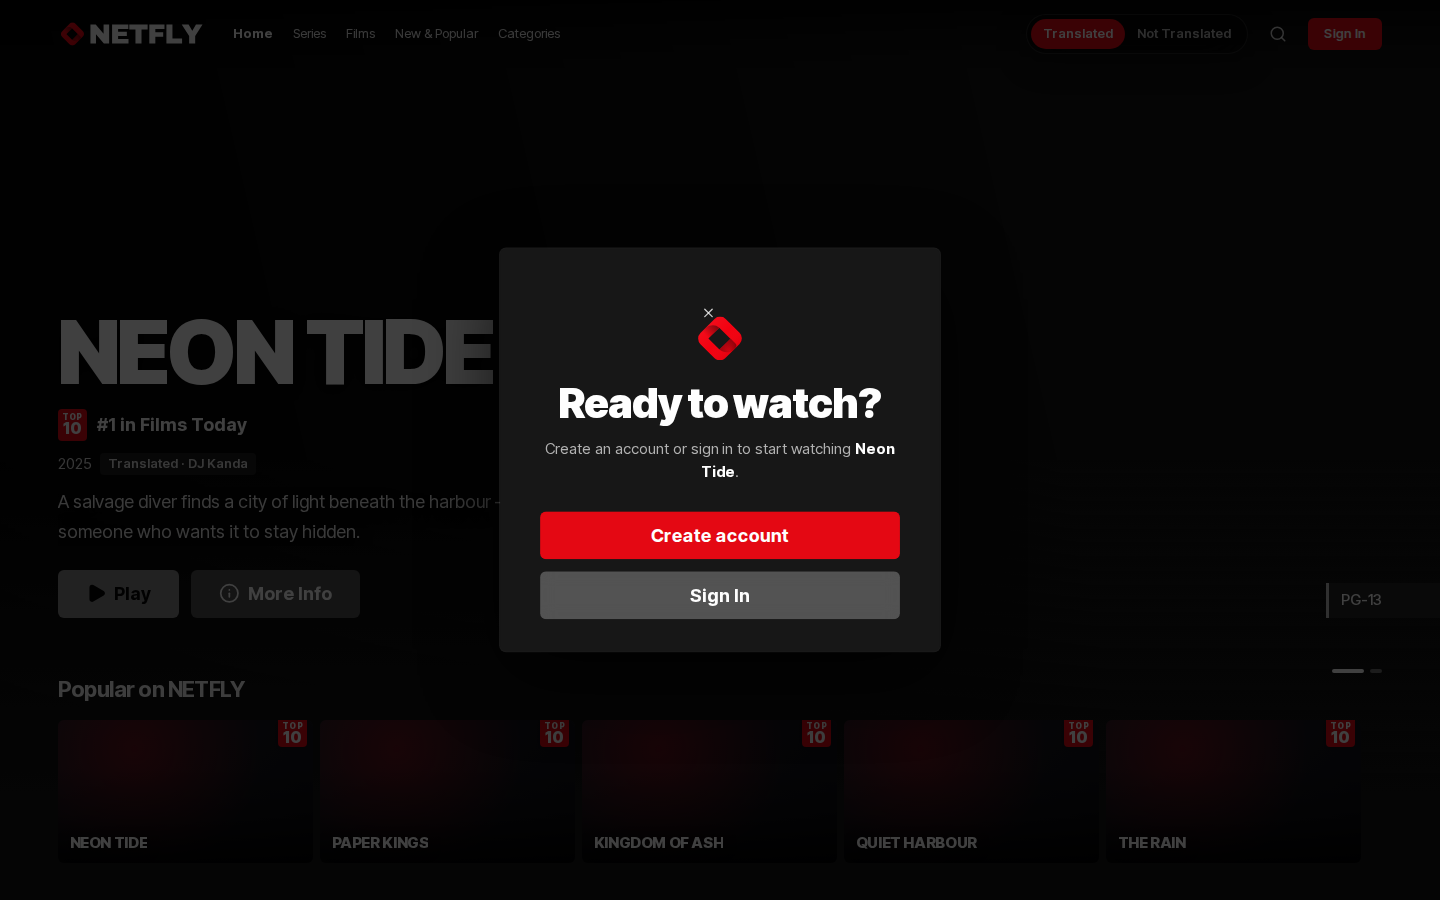
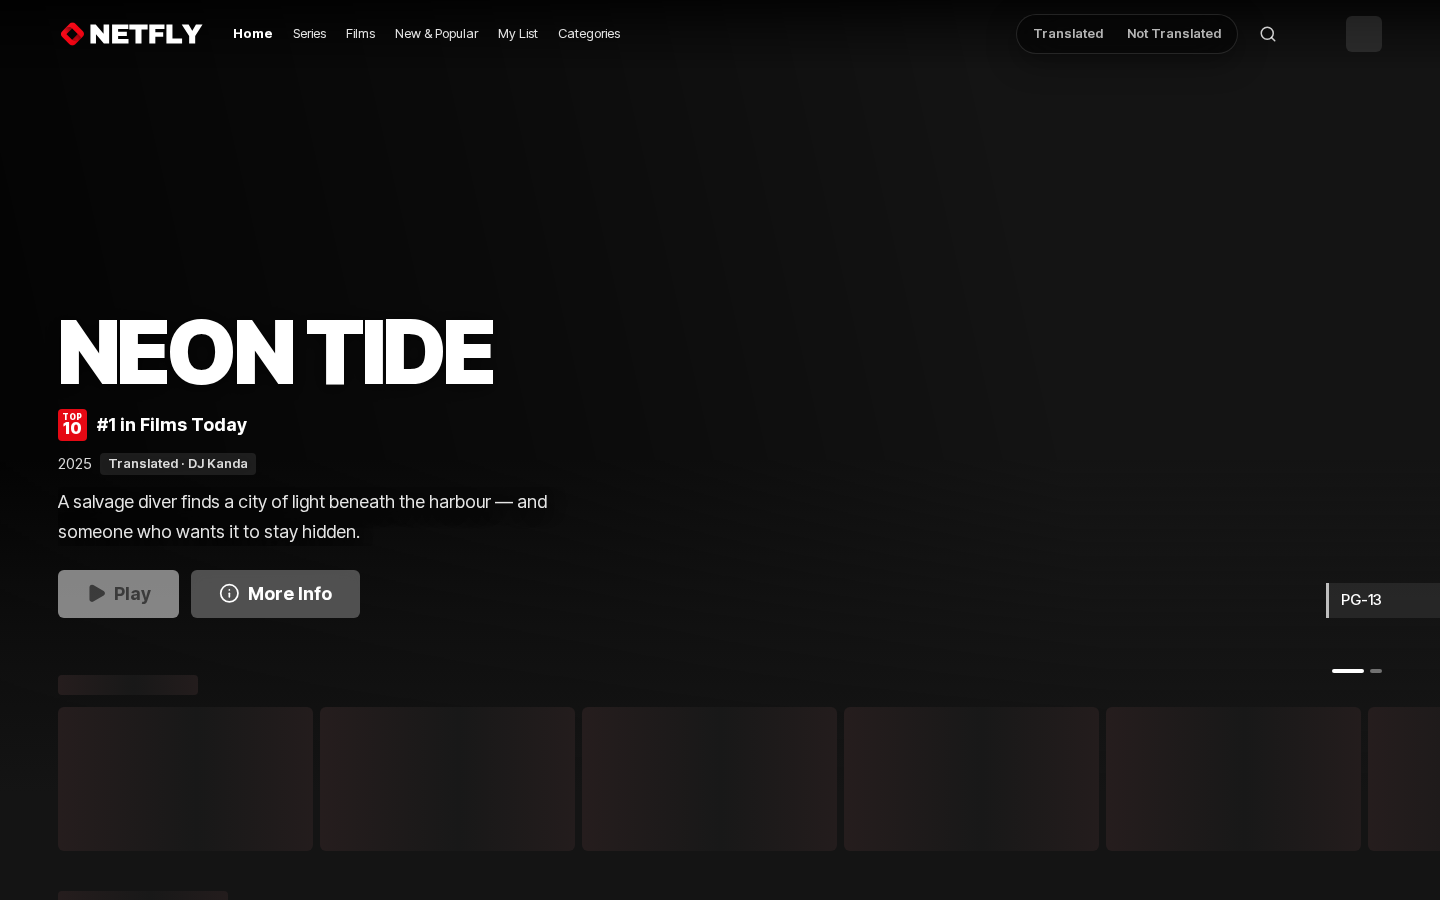
ui

diff --git a/e2e/tests/loader-pages.spec.ts b/e2e/tests/loader-pages.spec.ts
@@ -33,7 +33,11 @@ for (const size of SIZES) {
     test("a saving button keeps its width and shows the small loader", async ({ page }) => {
       const username = await createAccount();
       await page.goto("/login");
-      await hold(page, (u, r) => u.pathname === "/api/v1/auth/login" && r.request().method() === "POST", 2500);
+      await hold(
+        page,
+        (u, r) => u.pathname === "/api/v1/auth/login" && r.request().method() === "POST",
+        2500,
+      );
       const button = page.getByRole("button", { name: /^Sign in$/i });
       const width = (await button.boundingBox())!.width;
       await submitSignIn(page, username);
@@ -52,7 +56,8 @@ for (const size of SIZES) {
       test.skip(dev, "route fallbacks need prefetching, which only production builds do");
       await page.goto("/categories");
       // Hold the navigation's RSC request, not the prefetch (which carries the loading boundary).
-      const navigation = (r: Route) => !!r.request().headers()["rsc"] && !r.request().headers()["next-router-prefetch"];
+      const navigation = (r: Route) =>
+        !!r.request().headers()["rsc"] && !r.request().headers()["next-router-prefetch"];
       await hold(page, (u, r) => u.pathname.startsWith("/categories/") && navigation(r), 3000);
       await page.locator('main a[href^="/categories/"]').first().click();
       const loader = page.locator("[aria-busy] > .nf-loader[data-size=lg]:has(svg)");
@@ -106,7 +111,11 @@ test.describe("buttons that start a navigation behave like saving buttons", () =
 
   test("Get Started (a link) and the sign-up Next button", async ({ page }) => {
     const slow = (prefix: string) =>
-      hold(page, (u, r) => u.pathname.startsWith(prefix) && r.request().resourceType() !== "image", 2500);
+      hold(
+        page,
+        (u, r) => u.pathname.startsWith(prefix) && r.request().resourceType() !== "image",
+        2500,
+      );
     await page.goto("/");
     await slow("/signup");
     const start = page.getByRole("link", { name: /Get Started/i }).first();
@@ -124,6 +133,39 @@ test.describe("buttons that start a navigation behave like saving buttons", () =
     await loaderShown(next.locator(".nf-loader:has(svg)"));
     await page.screenshot({ path: "../docs/screenshots/loader-button-next-1440.png" });
     await page.waitForURL(/\/signup\/username/);
+  });
+
+  test("navigation links: the header link and the Studio sidebar item show the loader until their page loads", async ({
+    page,
+  }) => {
+    await signIn(page);
+    await hold(page, (u) => u.pathname === "/films", 2500);
+    const films = page
+      .getByRole("navigation", { name: "Primary" })
+      .first()
+      .getByRole("link", { name: "Films" });
+    await films.click();
+    await expect(films.locator(".nf-pending[data-pending] .nf-loader")).toBeVisible();
+    expect(await films.evaluate((el) => getComputedStyle(el).pointerEvents)).toBe("none");
+    await page.waitForURL(/\/films/);
+    await expect(films.locator(".nf-pending[data-pending]")).toHaveCount(0);
+    await page.unrouteAll({ behavior: "wait" });
+
+    const ADMIN = process.env.NETFLY_ADMIN_URL ?? "http://localhost:3001";
+    await page.goto(`${ADMIN}/login`);
+    await page.getByLabel("Username").fill(process.env.NETFLY_ADMIN_USER ?? "admin");
+    await page.getByLabel("Password").fill(process.env.NETFLY_ADMIN_PASSWORD ?? "netfly-dev-admin");
+    await page.getByRole("button", { name: "Sign in" }).click();
+    await page.waitForURL((url) => !url.pathname.startsWith("/login"));
+    await hold(page, (u) => u.pathname === "/audit", 2500);
+    const audit = page
+      .getByRole("navigation", { name: "Main" })
+      .first()
+      .getByRole("link", { name: /Audit/ });
+    await audit.click();
+    await expect(audit.locator(".nf-pending[data-pending] .nf-loader")).toBeVisible();
+    await page.waitForURL(/\/audit/);
+    await expect(audit.locator(".nf-pending[data-pending]")).toHaveCount(0);
   });
 
   test("Studio: a button inside a link", async ({ page }) => {

diff --git a/e2e/tests/mobile.spec.ts b/e2e/tests/mobile.spec.ts
@@ -136,6 +136,45 @@ test("tapping a tab shows the logo loader in its place until the page has loaded
   await expect(tab).toHaveAttribute("aria-current", "page");
 });
 
+test("account: a form's actions are a banner below its fields that docks above the tab bar", async ({
+  page,
+}) => {
+  test.skip((page.viewportSize()?.width ?? 0) >= 1024, "The docked banner is a phone layout.");
+  await signIn(page);
+  await page.goto("/account");
+  const name = page.getByLabel("Full name");
+  await name.fill("Banner Check");
+  const save = page.getByRole("button", { name: "Save" });
+  await expect(save).toBeVisible();
+  const measure = () =>
+    page.evaluate(() => {
+      const form = document.querySelector("input[name=name]")!.closest("form")!;
+      const field = form.firstElementChild!.getBoundingClientRect();
+      const banner = form.lastElementChild!.getBoundingClientRect();
+      const bar = document.querySelector('nav[data-tabbar=""]')!.getBoundingClientRect();
+      return {
+        fieldBottom: field.bottom,
+        bannerTop: banner.top,
+        bannerBottom: banner.bottom,
+        barTop: bar.top,
+      };
+    });
+  // In place: below the field, never over it.
+  await page
+    .getByRole("heading", { name: "Profile", exact: true })
+    .evaluate((el) => el.scrollIntoView({ block: "start" }));
+  let m = await measure();
+  expect(m.bannerTop).toBeGreaterThanOrEqual(m.fieldBottom);
+  // The banner's own spot just under the tab bar's top edge: it docks right above the bar instead.
+  await name.evaluate((el) => {
+    const top = el.getBoundingClientRect().top + scrollY;
+    scrollTo(0, top - innerHeight + 210);
+  });
+  m = await measure();
+  expect(Math.abs(m.bannerBottom - m.barTop)).toBeLessThanOrEqual(1);
+  await expect(save).toBeInViewport();
+});
+
 test("phone search: Top Searches list, then a 3-column poster grid while typing", async ({
   page,
 }) => {

diff --git a/apps/client/src/components/account/membership-card.tsx b/apps/client/src/components/account/membership-card.tsx
@@ -66,7 +66,7 @@ export function MembershipCard({ detailed = false }: { detailed?: boolean }) {
   const data = membership.data;
   if (!data)
     return (
-      <div aria-hidden className="bg-surface overflow-hidden rounded-md ring-1 ring-white/8">
+      <div aria-hidden className="bg-surface overflow-clip rounded-md ring-1 ring-white/8">
         <Skeleton className="h-28 rounded-none" />
         <div className="space-y-3 p-6">
           <Skeleton className="h-5 w-1/2" />
@@ -149,7 +149,7 @@ function Card({ sub, detailed }: { sub: Sub; detailed: boolean }) {
   return (
     <section
       data-testid="membership-card"
-      className="bg-surface overflow-hidden rounded-md ring-1 ring-white/8"
+      className="bg-surface overflow-clip rounded-md ring-1 ring-white/8"
     >
       <div className="relative px-6 pt-6 pb-5" style={{ background: planGradient(plan.order) }}>
         <div className="flex flex-wrap items-center gap-2">

diff --git a/apps/client/src/components/account/account-nav.tsx b/apps/client/src/components/account/account-nav.tsx
@@ -71,7 +71,7 @@ export function AccountPanel({
   return (
     <section
       data-testid={testId}
-      className={cn("bg-surface overflow-hidden rounded-md ring-1 ring-white/8", className)}
+      className={cn("bg-surface overflow-clip rounded-md ring-1 ring-white/8", className)}
     >
       {title ? (
         <div className="px-6 pt-6">
